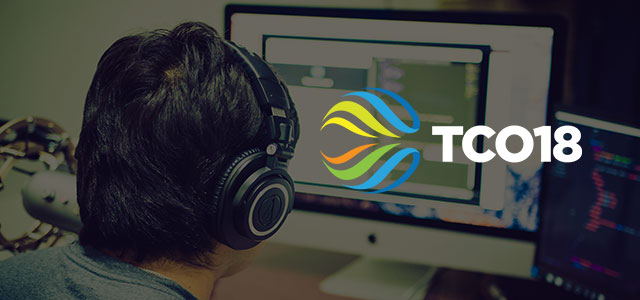
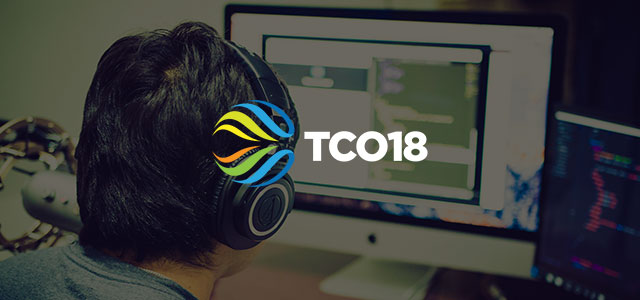
Minor fixes in the announcement

Changed region(s): [[0.3125, 0.27, 0.9062, 0.66]]

diff --git a/assets/css/directives/notification.directive.scss b/assets/css/directives/notification.directive.scss
@@ -92,22 +92,20 @@ $desktop-width: 1024px;
       // background-position: 0 20%;
       background-size: cover;
       background-repeat: no-repeat;
+      background-position: center center;
     }
     .notification-bg-desktop {
       @include desktop {
-        background-position: center center;
         display: block;
       }
     }
     .notification-bg-tablet {
       @include tablet {
         display: block;
-        background-position: center right;
       }
     }
     .notification-bg-mobile {
       @include mobile {
-        background-position: center right;
         display: block;
       }
     }
@@ -132,7 +130,7 @@ $desktop-width: 1024px;
         padding: 20px;
       }
       @include mobile {
-        height: 230px;
+        height: 250px;
         display: flex;
         flex-direction: column;
         padding: 14px;
@@ -145,7 +143,8 @@ $desktop-width: 1024px;
       color: #FFF;
       @include desktop {
         margin-top: 34px;
-        padding-left: 44px;
+        width: 50%;
+        padding: 20px 0 13px 44px;
       }
       @include tablet {
         font-size: 36px;
@@ -166,18 +165,19 @@ $desktop-width: 1024px;
       @include desktop {
         max-width: 50%;
         padding-left: 44px;
-        font-size: 18px;
-        line-height: 22px;
-        margin-bottom: 40px;
+        font-size: 26px;
+        line-height: 31px;
+        margin-bottom: 55px;
       }
       @include tablet {
-        font-size: 16px;
+        font-size: 18px;
+        line-height: 22px;
         margin-bottom: 16px;
         text-align: center;
       }
-      @include tablet {
+      @include mobile {
         font-size: 14px;
-        margin-bottom: 16px;
+        margin-bottom: 4px;
         text-align: center;
       }
     }
